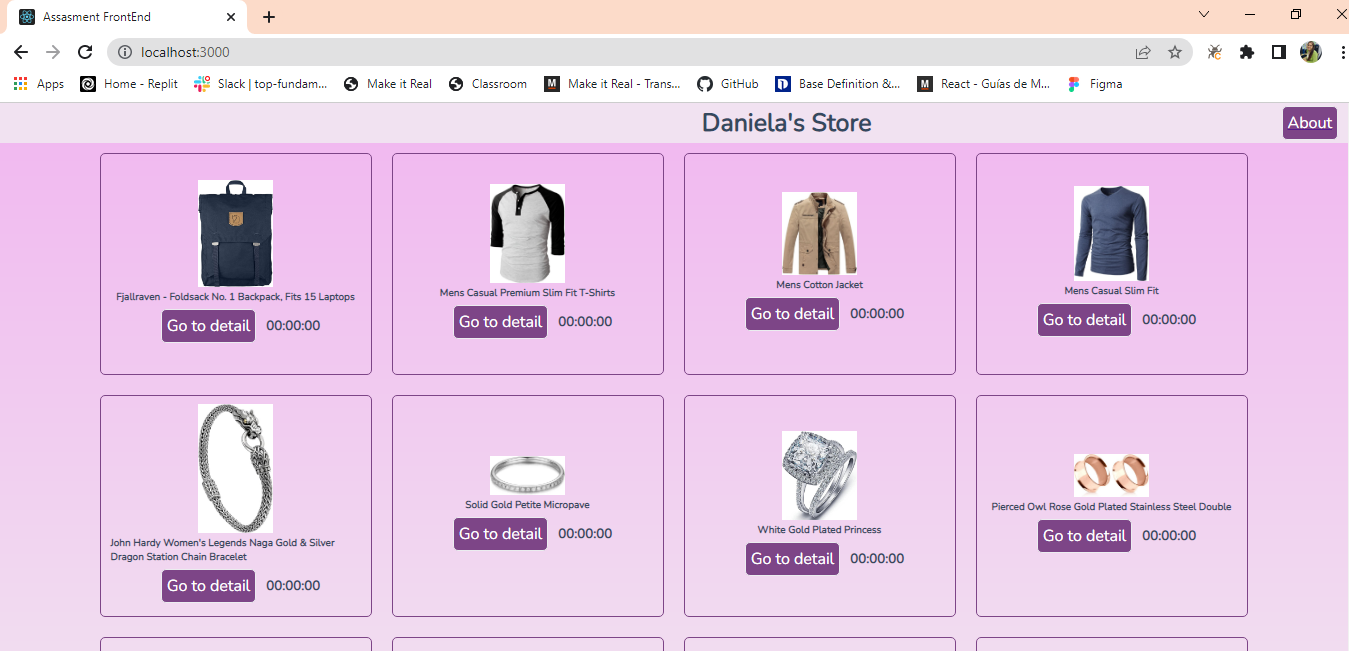
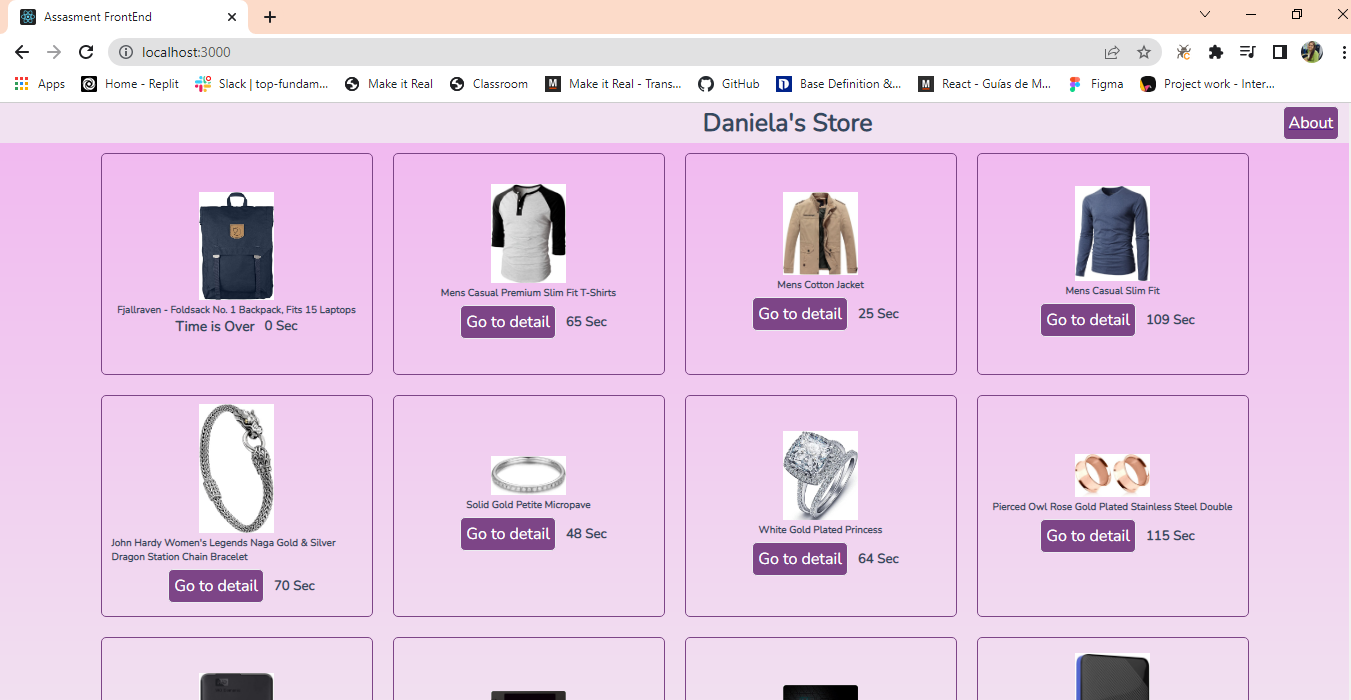
Update README and component Time

diff --git a/src/components/Home/Time.js b/src/components/Home/Time.js
@@ -1,79 +1,24 @@
-import React, { useState, useEffect, useRef } from 'react';
+import React, { useState, useEffect } from 'react';
 import { Link } from 'react-router-dom';
 
 const Time = (props) => {
-  // We need ref in this, because we are dealing
-  // with JS setInterval to keep track of it and
-  // stop it when needed
-  const Ref = useRef(null);
-
-  // The state for our timer
-  const [timer, setTimer] = useState('00:00:00');
-
-  const getTimeRemaining = (e) => {
-    const total = Date.parse(e) - Date.parse(new Date());
-    const seconds = Math.floor((total / 1000) % 60);
-    const minutes = Math.floor((total / 1000 / 60) % 60);
-    const hours = Math.floor(((total / 1000) * 60 * 60) % 24);
-    return {
-      total,
-      hours,
-      minutes,
-      seconds,
-    };
-  };
-
-  const startTimer = (e) => {
-    let { total, hours, minutes, seconds } = getTimeRemaining(e);
-    if (total >= 0) {
-      // update the timer
-      // check if less than 10 then we need to
-      // add '0' at the begining of the variable
-      setTimer(
-        (hours > 9 ? hours : '0' + hours) +
-          ':' +
-          (minutes > 9 ? minutes : '0' + minutes) +
-          ':' +
-          (seconds > 9 ? seconds : '0' + seconds)
-      );
-    }
-  };
-
-  const clearTimer = (e) => {
-    const id = setInterval(() => {
-      startTimer(e);
-    }, 1000);
-    Ref.current = id;
-  };
-
-  const getDeadTime = () => {
-    let deadline = new Date();
-
-    deadline.setSeconds(deadline.getSeconds() + Math.random() * 60);
-    deadline.setMinutes(deadline.getMinutes() + Math.random() * 2);
-    return deadline;
-  };
-
+  const [seconds, setSeconds] = useState(Math.floor(Math.random() * 180));
   useEffect(() => {
-    clearTimer(getDeadTime());
-  }, []);
-  console.log({ timer });
+    const timer =
+      seconds > 0 && setInterval(() => setSeconds(seconds - 1), 1000);
+    return () => clearInterval(timer);
+  }, [seconds]);
   return (
-    <>
-      {{ timer } === { timer: '00:00:00' } ? (
-        <div className="productDetail-footer">
+    <div className="productDetail-footer">
+      {seconds > 0 ? (
+        <Link to={props.route}>
           <button className="buttonHeader"> Go to detail</button>
-          <h5>{timer}</h5>
-        </div>
+        </Link>
       ) : (
-        <div className="productDetail-footer">
-          <Link to={props.route}>
-            <button className="buttonHeader"> Go to detail</button>
-          </Link>
-          <h5>{timer}</h5>
-        </div>
+        <p className="productDetail-footerOver">Time is Over</p>
       )}
-    </>
+      <h5>{seconds} Sec</h5>
+    </div>
   );
 };
 export default Time;

diff --git a/src/styles/components/ProductCard.scss b/src/styles/components/ProductCard.scss
@@ -40,5 +40,10 @@
     display: flex;
     justify-content: space-between;
     align-items: center;
+}
 
+.productDetail-footerOver{
+    font-size: 14px;
+    font-weight: 600;
+    margin-right: 10px;
 }

diff --git a/README.md b/README.md
@@ -17,9 +17,8 @@ Requerimientos
 Acerca de la Solución
 
 - Para la solución del proyecto se usaron solo Hooks, en la lógica de programación para desactivar el Link,
-  del botón Go to detail, se hizo dentro del componente Time, pero en la renderización no funciona, puede ser
-  por el comportamiento que tiene el timer, adicional se probo realizar un estado global con el time y con la
-  misma lógica para inhabilitar el botón, pero no genera timers random para cada Card.
+  del botón Go to detail, se hizo dentro del componente Time con el operador ternario. Igual en la página de
+  producto se uso operador ternario para un tiempo de espera en el momento de renderizar el objeto específico.
 
 ## IMÁGENES
 
